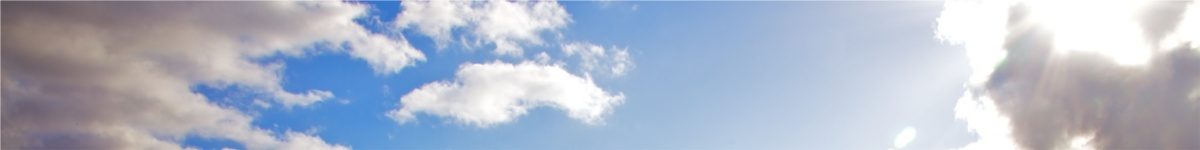
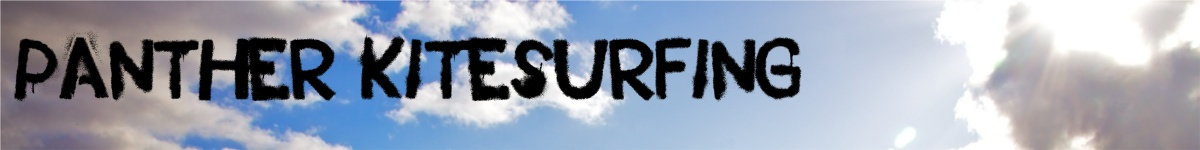
graphics changed, if not liked can be put back

Changed region(s): [[0.0, 0.2133, 0.6783, 0.6933]]

diff --git a/ecom.css b/ecom.css
@@ -119,7 +119,7 @@ body
 	
 #header 
 {
-	background: #45485e url('images/header_bg.png');
+	background: #45485e url('images/header.jpg');
 	height:150px;
 	width:100%;
 	margin:auto;

diff --git a/header.php b/header.php
@@ -10,7 +10,8 @@
 
 <div id="container">
 	<div id="header">
-	<div style="float: right; padding-top:30px;margin:10px; padding-right: 50px;background:white; border:thin solid;">
+	<div style="float: right; padding-top:5px; padding-bottom:5px; margin:5px 65px 5px 5px; padding-right:25px; padding-left:5px; background:white; border:thin solid;">
+	
 		SUPER SHOPPING CART<br/>
                 <?php 
                     $item_total = cartTotal();
@@ -18,7 +19,7 @@
                 
                     if($item_total != "<p>Cart is empty</p>"){
                         echo "<form action='shopping_cart.php' method='link' >";
-                        echo "<input type='submit' name='gotocart' value=' Go to Cart' /></form>";
+                        echo "<input type='image' src='images/cartPanther.png'  width='170' height='58' name='gotocart' value=' Go to Cart' /></form>";
                     }
                 ?>                
 	</div>
